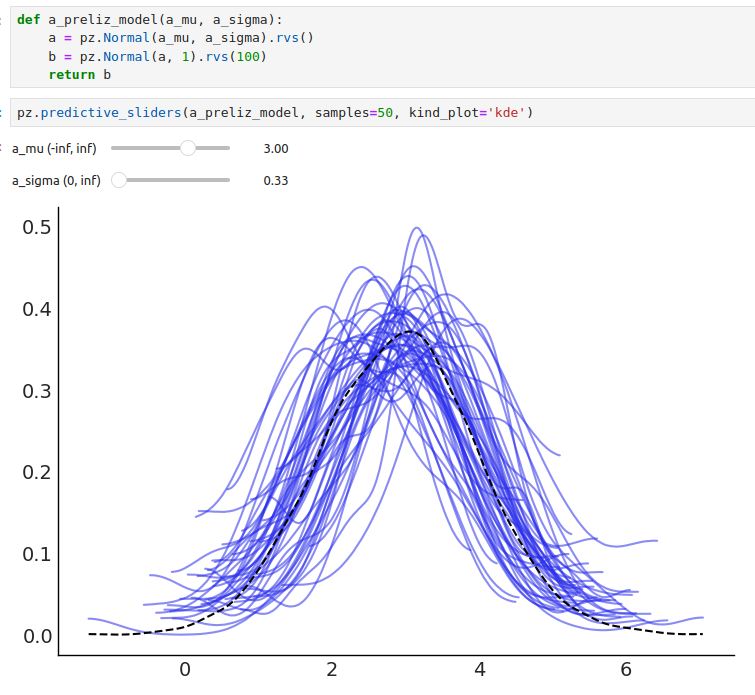
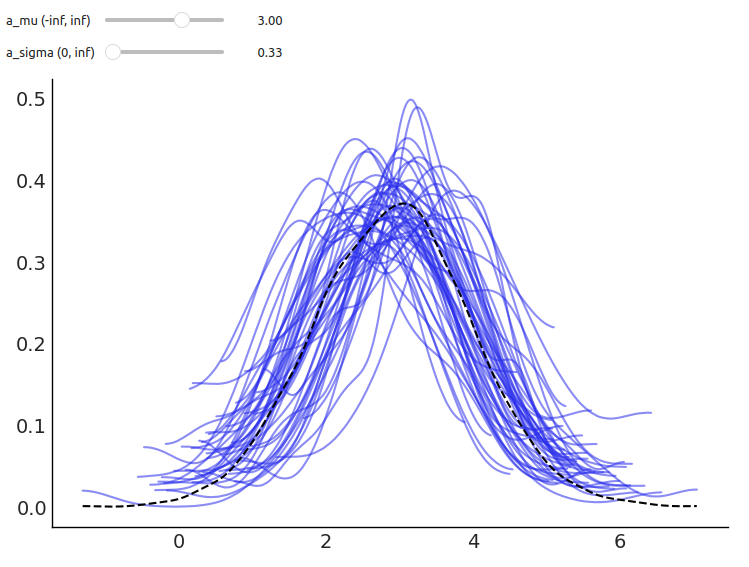
Apply suggestions from paper review

Changed region(s): [[0.0, 0.1499, 0.9826, 0.9894], [0.0, 0.0, 0.4299, 0.1199], [0.3378, 0.2099, 0.3992, 0.2698]]

diff --git a/paper/paper.md b/paper/paper.md
@@ -37,26 +37,55 @@ In a Bayesian modeling workflow, a prior distribution can be chosen in different
 
 Specifying useful priors is a central aspect of Bayesian statistics [@gelman:2013; @martin:2021; @martin:2022], yet prior elicitation techniques that would make this step easier and more systematic are not routinely used within practical Bayesian workflows [@mikkola:2021]. Instead, practitioners tipicaly rely on ad hoc procedures based on a mix of their own experience and recommendations available in the literature, which in general has not been systematized [@sarma:2020]. One reason is that current solutions are simply not sufficient for practical data analysis and do not integrate well with probabilistic programming libraries [@mikkola:2021]. PreliZ is a library for prior elicitation that aims to facilitate the task for practitioners by offering a set of tools for the various facets of prior elicitation. It covers a range of methods, from unidimensional prior elicitation on the parameter space to predictive elicitation on the observed space. The goal is to be compatible with probabilistic programming languages in the Python ecosystem like PyMC and PyStan, which involves including the distributions and their parameterization that are supported by these languages.
 
-# Software API and Features
+# Software API and features
 
 PreliZ provides functionality for four core aspects: (1) Specification and manipulation of prior distributions, (2) Visualization of priors and the induced predictive distributions, (3) User interaction components, and (4) Algorithms learning priors from user-provided information.
 PreliZ distributions are built on top of SciPy distributions, providing easy access to all standard functionality, in particular random sampling and quantiles needed in the elicitation process. However, PreliZ extends many of the distributions for increased user-friendliness. For instance, PreliZ uses a canonical parametrization, instead of loc-scale style used by many of the SciPy distributions, and adds common alternative parametrizations,  e.g. Beta-distribution also in terms of mean and standard deviation. Finally, PreliZ also includes some distributions not available in SciPy, like the HalfStudentT, or LogitNormal.
 
 Preliz provides a range of plotting commands, including probability densities and cumulative densities (`plot_pdf` and `plot_cdf`) as well as extensive numerical summaries covering e.g. equal tailed intervals and highest density intervals. All plots support easy integration of input functionality, with the method `plot_interactive` automatically creating ipywidgets sliders for effortless exploration of how the parameters affect the distribution (see \autoref{fig:figure_1}).
 
+```python
+pz.Gamma(mu=2, sigma=1).plot_interactive()
+```
+
 ![Example of `plot_interactive()` output for Gamma distribution with mu=2 and sigma=1.\label{fig:figure_1}](figures/figure_1.png)
 
 PreliZ includes a few algorithms for inferring the suitable prior from the user-provided information, and provides a general API that makes adding new algorithms easy. As a practical example, `pz.maxent(pz.Gamma(mu=4), 1, 10, 0.9)` would find the maximum-entropy Gamma distribution that has 90% of its mass between 1 and 10, with the additional constraint of mean being 4. The library currently implements also the roulette method of @morris:2014, allowing users to find a prior distribution by drawing a histogram (see \autoref{fig:figure_2}).
+
+```python
+%matplotlib widget
+pz.roulette()
+```
 
 ![Roulette method.\label{fig:figure_2}](figures/figure_2.png)
 
 One of the main goals of PreliZ is to facilitate predictive elicitation, where information provided in the space of observable quantities is converted into a valid prior by a suitable learning algorithms, avoiding the need to provide direct information on the model parameters. PreliZ already implements functionality for this. For instance, `pz.predictive_sliders` (see \autoref{fig:figure_3}) makes it easy to explore how the prior predictive distribution of an arbitrary probabilistic model changes with the prior, and `pz.ppa` (see \autoref{fig:figure_4}) is an experimental prior predictive assistant that computes priors consistent with user-made choice of prior predictive samples. 
 
+```python
+def a_preliz_model(a_mu, a_sigma):
+    a = pz.Normal(a_mu, a_sigma).rvs()
+    b = pz.Normal(a, 1).rvs(100)
+    return b
+
+pz.predictive_sliders(a_preliz_model, samples=50, kind_plot='kde')
+```
+
 ![Example of use of `pz.predictive_sliders` for a simple model.\label{fig:figure_3}](figures/figure_3.png)
+
+```python
+def another_preliz_model():
+    a = pz.Normal(0, 10).rvs()
+    b = pz.HalfNormal(10).rvs()
+    y = pz.Normal(a, b).rvs(100)
+    return a, b, y
+
+%matplotlib widget
+pz.ppa(another_preliz_model)
+```
 
 ![Snapshot of a step of `pz.ppa`.\label{fig:figure_4}](figures/figure_4.png)
 
-# Software Citations
+# Software citations
 
 PreliZ is written in Python 3.8+ and uses the following software packages:
 
